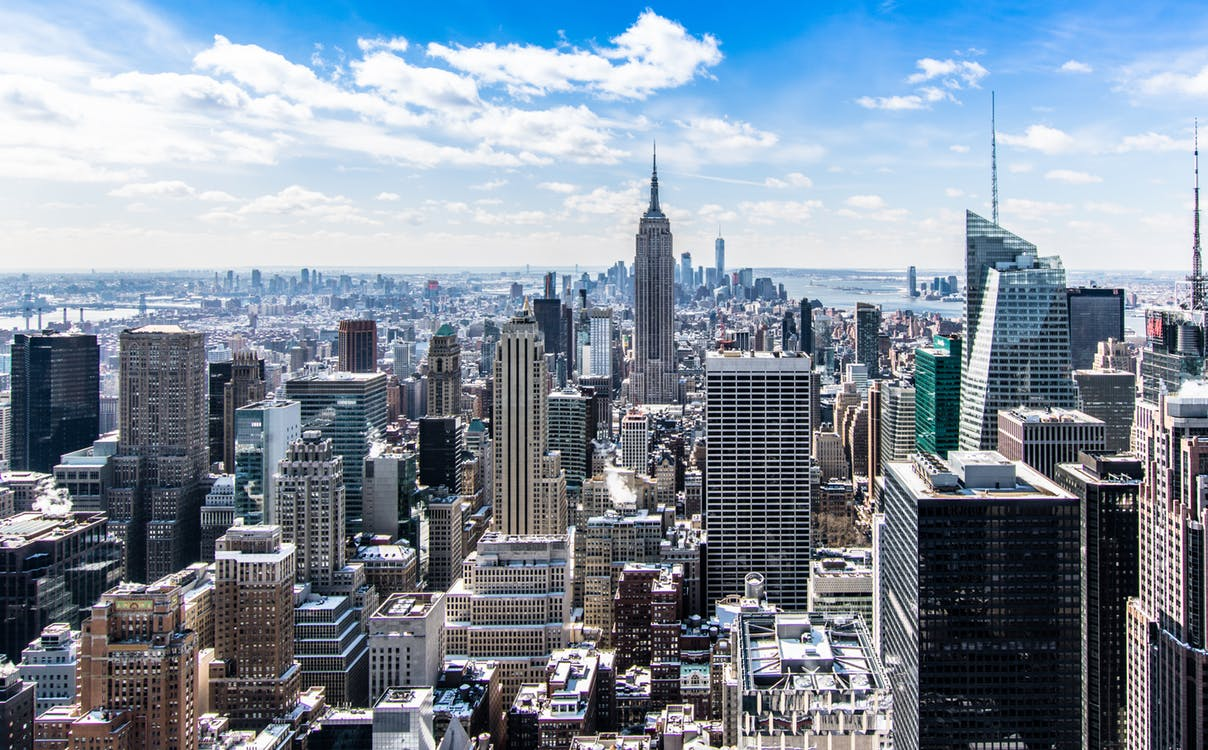
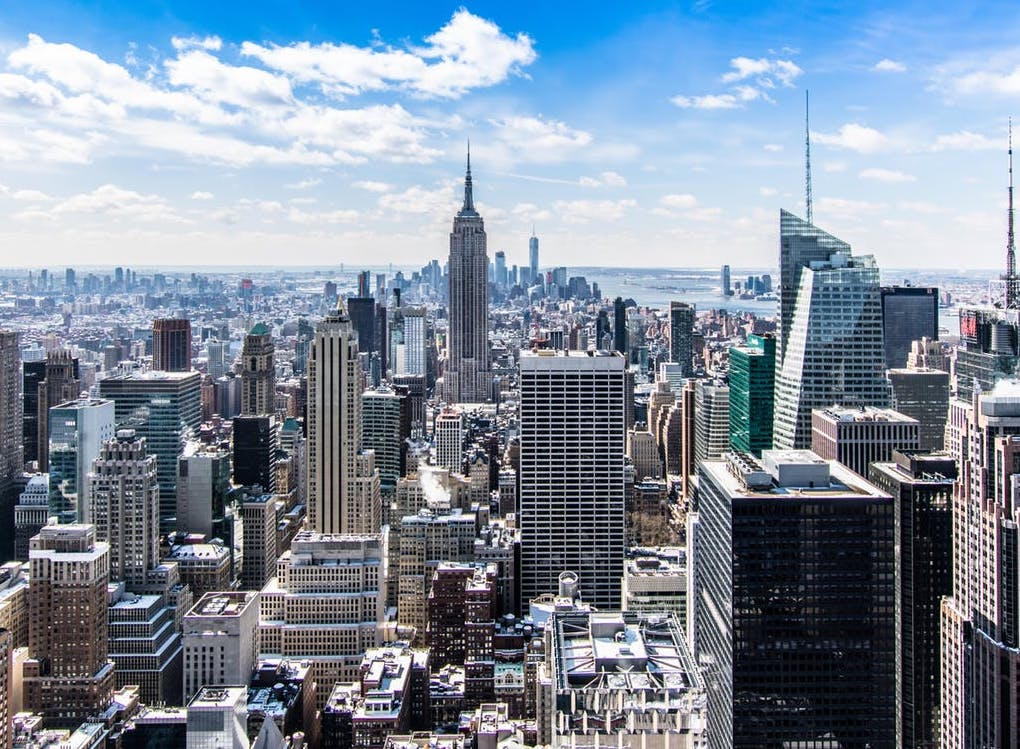
Finish styling splash page, start writing components to render crypto table prices

diff --git a/app/assets/stylesheets/carousel.scss b/app/assets/stylesheets/carousel.scss
@@ -1,17 +1,18 @@
 .carousel {
     width: 100%;
-    height: 70vh;
+    max-height: 80vh;
     position: relative;
     overflow: hidden;
-    max-height: 670px;
+    height: 66vw;
     
 
     .slide {
         width: 100%;
-        height: 100%;
+        height: auto;
+        max-height: 100%;
         position: absolute;
         left: 0;
-        top: 0;
+        bottom: 0;
         transition: opacity 1s ease-in-out;
         &.active {
             opacity: 1;
@@ -19,17 +20,81 @@
         &:not(.active) {
             opacity: 0;
         }
+        img {
+            width: 100%;
+            height: auto;
+        }
+    }
+
+    .carousel-bottom {
+        z-index: 10;
+        bottom: 0;
+        left: 0;
+        top: 80%;
+        width: 100%;
+        background: rgba(24,28,31,0.8);     // last number coefficient is opacity (the higher the more opaque)
+        color: white;
+        position: absolute;
+
+        .carousel-description {
+            bottom: 50%;
+            top: 0;
+            padding: 1em;
+            width: 100%;
+            position: absolute;
+            
+            .carousel-slide-label {
+                float: left;
+                max-width: 80%;
+
+                // position: relative;
+                // max-width: 80%;
+            }
+
+            .carousel-bottom-action {
+                max-width: 20%;
+                float: right;
+                padding-right: 7rem;
+                height: 100%;
+            }
+        }
+
+
+        > ul {                                  // direct children
+            width: 100%;
+            top: 50%;
+            bottom: 0;
+            display: flex;
+            flex-direction: row;
+            margin: 0;
+            padding: 0;
+            list-style: none;
+            position: absolute;
+            > li {
+                flex: 1;
+                padding: 1rem;
+                display: block;
+                border: 1px solid white;
+                transition: all 1s ease-in-out;
+                &:hover {
+                    background: rgba(24,28,31,1);
+                }
+            }
+
+        }
     }
 }
 
-.background-img {
-    // background-position-x: 0%;
-    // background-position-y: 0%;
-    // top: 0px;
-    width: 1030px;
-    min-width: 1030px;
-    height: 680px;
-    bottom: 0px;
+// .background-img {
+//     // background-position-x: 0%;
+//     // background-position-y: 0%;
+//     // top: 0px;
+//     // width: 1030px;
 
-    // position: absolute;
-}
+
+//     // min-width: 1030px;
+//     // height: 680px;
+//     // bottom: 0px;
+
+//     // position: absolute;
+// }

diff --git a/frontend/components/home_page.jsx b/frontend/components/home_page.jsx
@@ -11,18 +11,20 @@ class HomePage extends React.Component {
 	componentDidMount() {
 		let carousel = $(this.carousel.current);
 		let slides = carousel.find('.slide');
+		let tabs = carousel.find('ul.carousel-tabs > li');			// array-like of all tabs
+		let label = carousel.find('.carousel-slide-label');
 		let slideCount = slides.length;
-		slides.first().addClass('active');
-
 		let rotateSlide = () => {
 			let activeSlide = slides.filter('.active');
-			let activeSlideIdx = slides.index(activeSlide);
+			let activeSlideIdx = (activeSlide.length > 0) ? slides.index(activeSlide) : -1;
 			let newSlideIdx = (activeSlideIdx + 1) % slideCount;
 			let newSlide = $(slides.get(newSlideIdx));
+			let newSlideTab = $(tabs.get(newSlideIdx));
 			if (activeSlideIdx >= 0) activeSlide.removeClass('active');
 			newSlide.addClass('active');
+			label.text(newSlideTab.text());
 		};
-
+		rotateSlide();
 		this.interval = window.setInterval(rotateSlide, 5000);
 	}
 
@@ -38,8 +40,26 @@ class HomePage extends React.Component {
 				<div className="carousel" ref={this.carousel}> 
 					<div className="slide"><img src="/assets/space.jpeg" className="background-img" alt="outer space"/></div>
 					<div className="slide"><img src="/assets/new_york.jpeg" className="background-img" alt="new york"/></div>
-					<div className="slide"><img src="/assets/vault.jpeg" className="background-img" alt="bank vault"/></div>
+					<div className="slide"><img src="/assets/vault.png" className="background-img" alt="bank vault"/></div>
+
+					<div className="carousel-bottom">
+						<div className="carousel-description">
+							<div className="carousel-slide-label"></div>
+							<div className="carousel-bottom-action">
+								<button>Sign Up</button>
+							</div>
+						</div>
+
+						<ul className="carousel-tabs">
+							<li>Buy and sell cryptocurrency</li>
+							<li>Vault Protection</li>
+							<li>The most trusted cryptocurrency platform</li>
+						</ul>
+					</div>
 				</div>
+				<CurrencyTable>
+					<CurrencyTableItem symbol="BTC"/>
+				</CurrencyTable>
 			</>
 		)
 	}

diff --git a/frontend/components/currency_table.jsx b/frontend/components/currency_table.jsx
@@ -1,0 +1,41 @@
+class CurrencyTable {
+    constructor(props) {
+        super(props);
+    }
+
+    render() {
+        const { children } = this.props
+
+        return (
+            <>
+                <table className="currencies">
+                    <thead>
+                        <th>#</th>
+                        <th>name</th>
+                        <th>price</th>
+                        <th>change</th>
+                        <th>chart</th>
+                        <th>trade</th>
+                    </thead>
+                    <tbody>
+                        {React.Children.toArray(children).map((child, idx) => (
+                            <>
+                                <tr>
+                                    <td>{idx}</td>
+                                    <td>{child.name}</td>
+                                    <td>{child.price}</td>
+                                    <td>{child.change}</td>
+                                    <td>{child.chart}</td>
+                                    {/* <td><!-- TODO button --></td> */}
+                                </tr>
+                                
+                            </>
+                        ))}
+                    </tbody>
+                </table>
+            </>
+        );
+    }
+}
+
+export default CurrencyTable;

diff --git a/frontend/components/currency_table_item.jsx b/frontend/components/currency_table_item.jsx
@@ -1,0 +1,26 @@
+class CurrencyTableItem {
+    constructor(props) {
+        super(props);
+    }
+
+    render() {
+        return (
+            <>
+                <React.Fragment key="name">
+                    {this.props.name}
+                </React.Fragment>
+                <React.Fragment key="price">
+                    {this.state.price}
+                </React.Fragment>
+                <React.Fragment key="change">
+                    {this.state.price}
+                </React.Fragment>
+                <React.Fragment key="chart">
+                    {this.state.price}
+                </React.Fragment>
+            </>
+        );
+    }
+}
+
+export default CurrencyTableItem;
